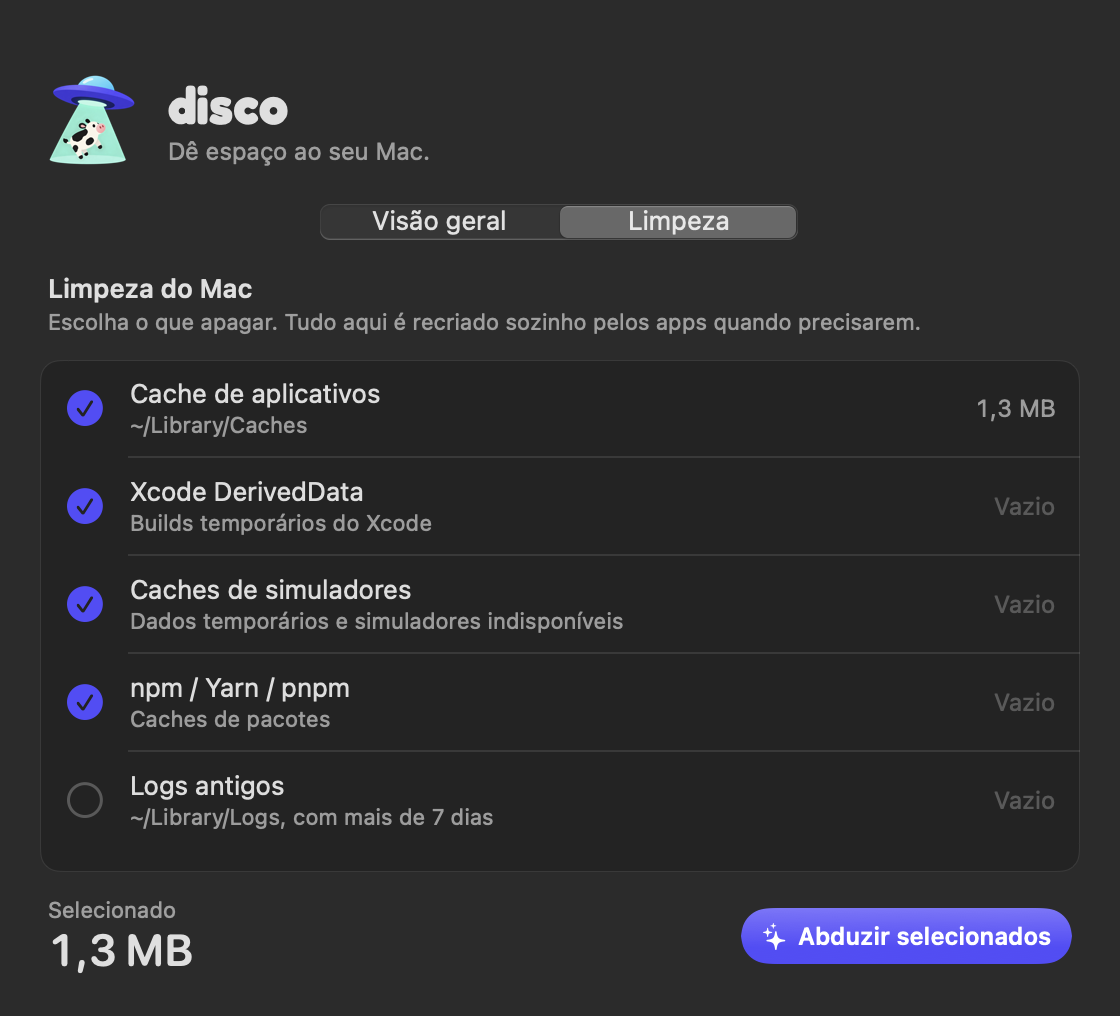
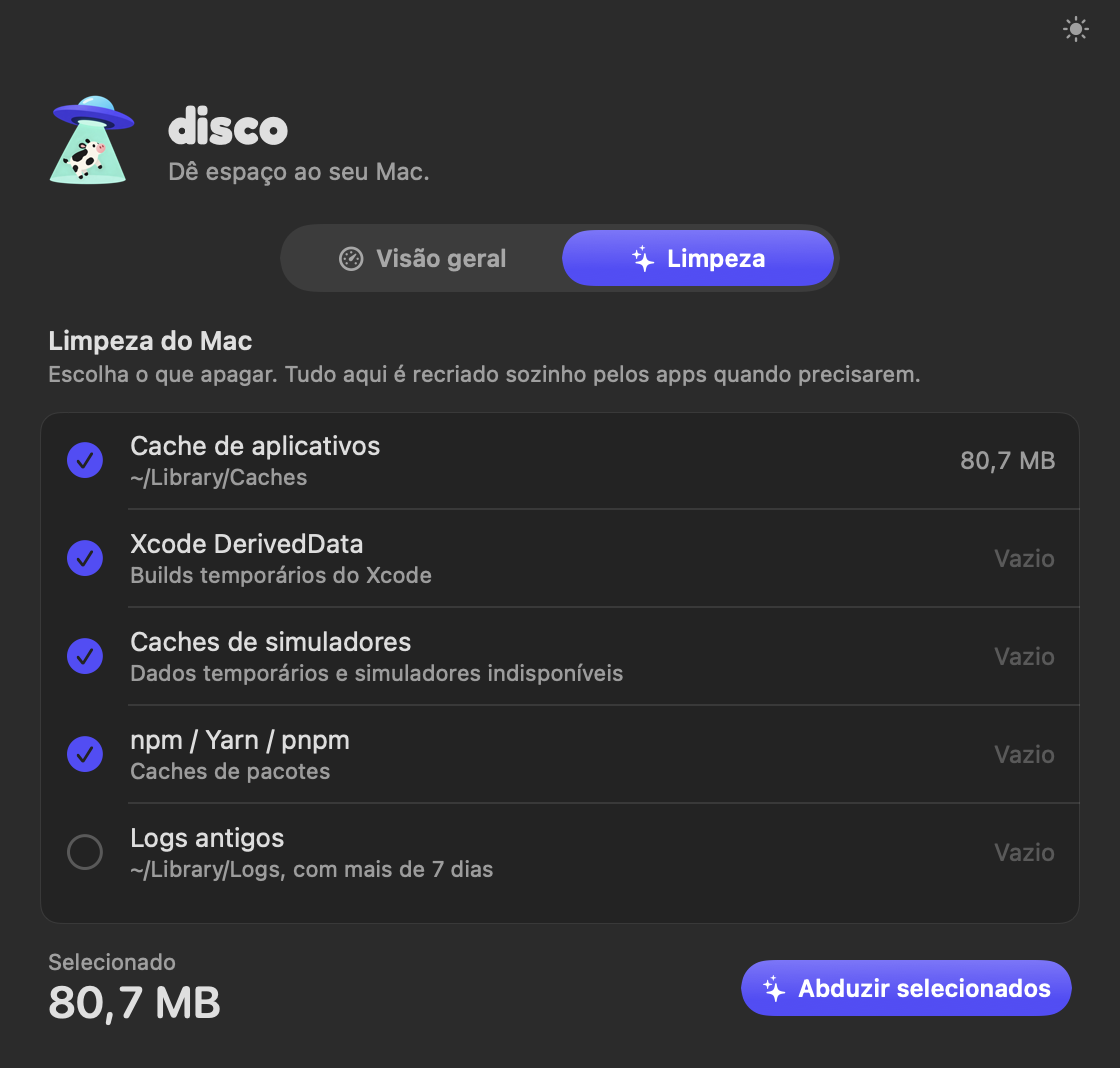
Abas no padrão da cápsula Abduzir (toggle com seleção deslizante)

diff --git a/App/MainWindow.swift b/App/MainWindow.swift
@@ -17,6 +17,20 @@ extension Font {
 enum WindowTab: String, CaseIterable {
     case overview = "Visão geral"
     case clean = "Limpeza"
+
+    var systemImage: String {
+        switch self {
+        case .overview: "gauge.with.dots.needle.67percent"
+        case .clean: "sparkles"
+        }
+    }
+
+    var help: String {
+        switch self {
+        case .overview: "Disco, memória e apps que mais usam memória"
+        case .clean: "Escolher e abduzir arquivos temporários"
+        }
+    }
 }
 
 enum WindowTheme: String {
@@ -132,8 +146,8 @@ struct MainView: View {
         VStack(alignment: .leading, spacing: 16) {
             header
             // Hierarquia: marca primeiro, depois a troca de aba.
-            TabSegments(selection: $state.tab)
-                .frame(width: 240)
+            TabToggle(selection: $state.tab)
+                .frame(width: 280)
                 .frame(maxWidth: .infinity)
             Group {
                 switch state.tab {
@@ -251,40 +265,42 @@ struct ThemeToggle: View {
     }
 }
 
-/// Controle segmentado nativo do macOS (HIG): segmentos de mesma largura, um selecionado por vez.
-struct TabSegments: NSViewRepresentable {
+/// Abas no mesmo padrão da cápsula "Abduzir temporários": trilho cinza e a aba ativa
+/// como cápsula roxa que desliza entre os segmentos (de mesma largura).
+struct TabToggle: View {
     @Binding var selection: WindowTab
+    @Namespace private var namespace
 
-    func makeNSView(context: Context) -> NSSegmentedControl {
-        let control = NSSegmentedControl(
-            labels: WindowTab.allCases.map(\.rawValue),
-            trackingMode: .selectOne,
-            target: context.coordinator,
-            action: #selector(Coordinator.changed(_:))
-        )
-        control.segmentDistribution = .fillEqually
-        control.segmentStyle = .automatic
-        control.controlSize = .regular
-        // HIG (macOS): se o app usa dicas, uma por segmento.
-        control.setToolTip("Disco, memória e apps que mais usam memória", forSegment: 0)
-        control.setToolTip("Escolher e abduzir arquivos temporários", forSegment: 1)
-        return control
-    }
-
-    func updateNSView(_ control: NSSegmentedControl, context: Context) {
-        context.coordinator.selection = $selection
-        control.selectedSegment = WindowTab.allCases.firstIndex(of: selection) ?? 0
-    }
-
-    func makeCoordinator() -> Coordinator { Coordinator(selection: $selection) }
-
-    final class Coordinator: NSObject {
-        var selection: Binding<WindowTab>
-        init(selection: Binding<WindowTab>) { self.selection = selection }
-
-        @objc func changed(_ sender: NSSegmentedControl) {
-            selection.wrappedValue = WindowTab.allCases[sender.selectedSegment]
+    var body: some View {
+        HStack(spacing: 2) {
+            ForEach(WindowTab.allCases, id: \.self) { tab in
+                let selected = tab == selection
+                Button {
+                    withAnimation(.snappy(duration: 0.25)) { selection = tab }
+                } label: {
+                    HStack(spacing: 5) {
+                        Image(systemName: tab.systemImage)
+                        Text(tab.rawValue)
+                    }
+                    .font(.system(size: 12, weight: .semibold))
+                    .foregroundStyle(selected ? AnyShapeStyle(.white) : AnyShapeStyle(.secondary))
+                    .frame(maxWidth: .infinity)
+                    .padding(.vertical, 6)
+                    .background {
+                        if selected {
+                            Capsule()
+                                .fill(Color.brandPurple.gradient)
+                                .matchedGeometryEffect(id: "selection", in: namespace)
+                        }
+                    }
+                    .contentShape(Capsule())
+                }
+                .buttonStyle(.plain)
+                .help(tab.help)
+            }
         }
+        .padding(3)
+        .background(.fill.secondary, in: Capsule())
     }
 }
 
